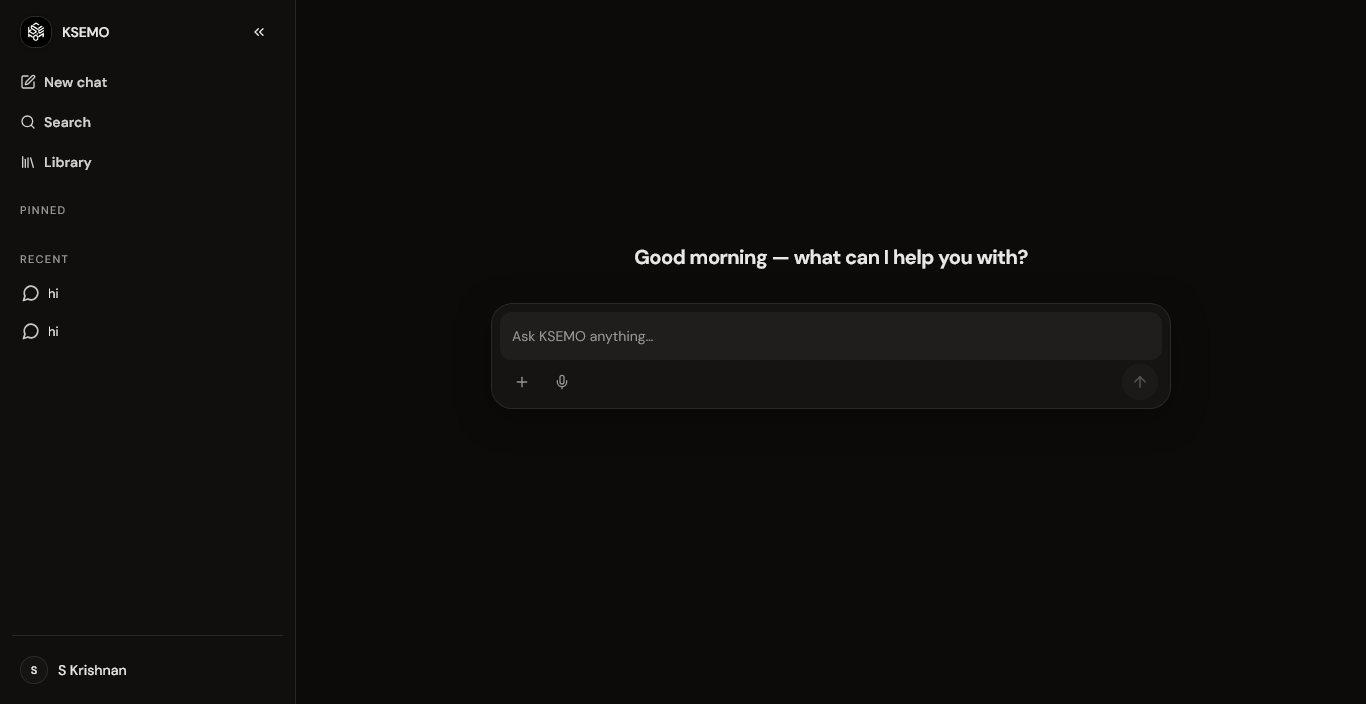
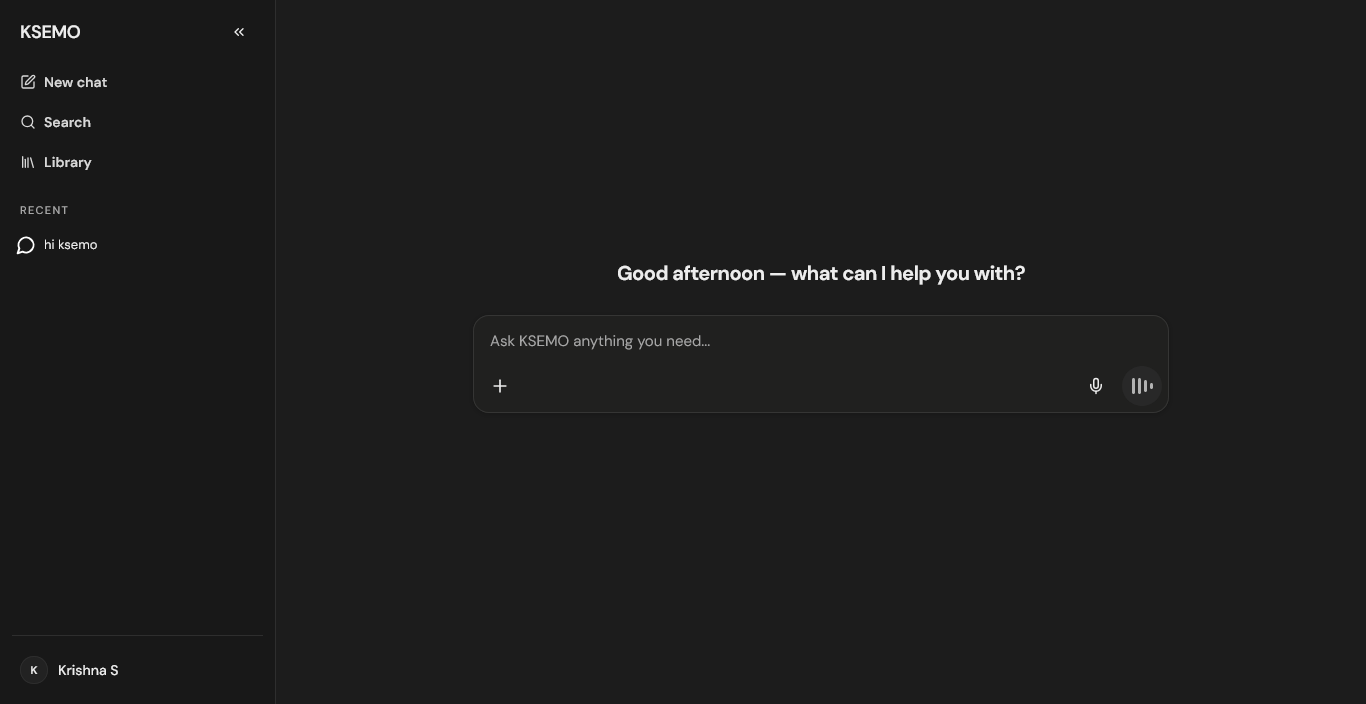
update

diff --git a/src/components/Projects.jsx b/src/components/Projects.jsx
@@ -13,10 +13,15 @@ const projects = [
     id: '01',
     title: 'KSEMO',
     subtitle: 'AI Conversational Platform',
-    description: 'A full-stack AI chat platform with voice interaction, file intelligence, and full conversation management. Built with React 19, TypeScript, and Vite on the frontend with Express and tRPC on the backend. Features real-time streaming responses via Server-Sent Events, Google Gemini as the primary AI backend with automatic fallback to AIML API, voice transcription and text-to-speech, file upload with document text extraction, web search integration with multiple providers, message versioning, conversation export as PDF/Word, public sharing, project organization, and multi-account authentication with Google OAuth and email/password. Database powered by Supabase PostgreSQL with Row Level Security.',
+    description: [
+      'KSEMO is a full-stack AI-powered assistant platform built to bring chat, document creation, voice interaction, and personal knowledge management into one unified experience. From real-time streaming conversations to professional document generation, everything happens inside a single application. The platform connects to AI language models and streams responses word-by-word in real time, giving the feel of a live assistant at work.',
+      'At its core, KSEMO features a durable memory system that automatically extracts important facts from your conversations — your preferences, relationships, and habits — and recalls them across sessions so every interaction feels personal and continuous. A built-in document creator turns any conversation into a complete, downloadable PDF, Word, Excel, PowerPoint, or Text file, with intelligent structure planning for headings, tables, lists, and layouts.',
+      'Voice interaction is built in from the ground up: speak through your microphone, get transcribed, and hear responses read back with text-to-speech, even in a full hands-free mode that lets you interrupt mid-speech. A file library extracts text from uploaded documents so they can be attached to any conversation as direct context. Conversations can be pinned, archived, renamed, duplicated, organized into projects, searched instantly, shared through public links or email, exported as PDF/Word, and every edited message keeps version history.',
+      'On the engineering side, it is built with React 19, TypeScript, and Vite on the frontend with Express and tRPC on the backend, delivering real-time streaming responses via Server-Sent Events. Google Gemini serves as the primary AI backend with automatic fallback to the AIML API, supported by voice transcription, text-to-speech, document text extraction, and web search. Database storage is powered by Supabase PostgreSQL with Row Level Security, and authentication supports Google OAuth plus email/password with secure session management.',
+    ],
     tech: ['React 19', 'TypeScript', 'Vite', 'Express', 'tRPC', 'Supabase', 'Google Gemini', 'Tailwind CSS', 'Framer Motion'],
-    demo: '#',
-    link: '#',
+    demo: 'https://ksemo.onrender.com/',
+    link: 'https://ksemo.onrender.com/',
     source: '#',
     image: ksemo
   },
@@ -156,15 +161,19 @@ const ProjectCard = ({ project, index }) => {
               {project.subtitle}
             </motion.p>
 
-            <motion.p
+            <motion.div
               initial={{ opacity: 0, y: 20 }}
               whileInView={{ opacity: 1, y: 0 }}
               viewport={{ once: true }}
               transition={{ delay: 0.35 }}
-              className="text-[#D4D4D4] leading-relaxed text-sm md:text-base mb-8 max-w-lg"
+              className="mb-8 max-w-lg"
             >
-              {project.description}
-            </motion.p>
+              {(Array.isArray(project.description) ? project.description : [project.description]).map((para, i) => (
+                <p key={i} className="text-[#D4D4D4] leading-relaxed text-sm md:text-base mb-3 last:mb-0">
+                  {para}
+                </p>
+              ))}
+            </motion.div>
 
             <motion.div
               initial={{ opacity: 0, y: 20 }}
